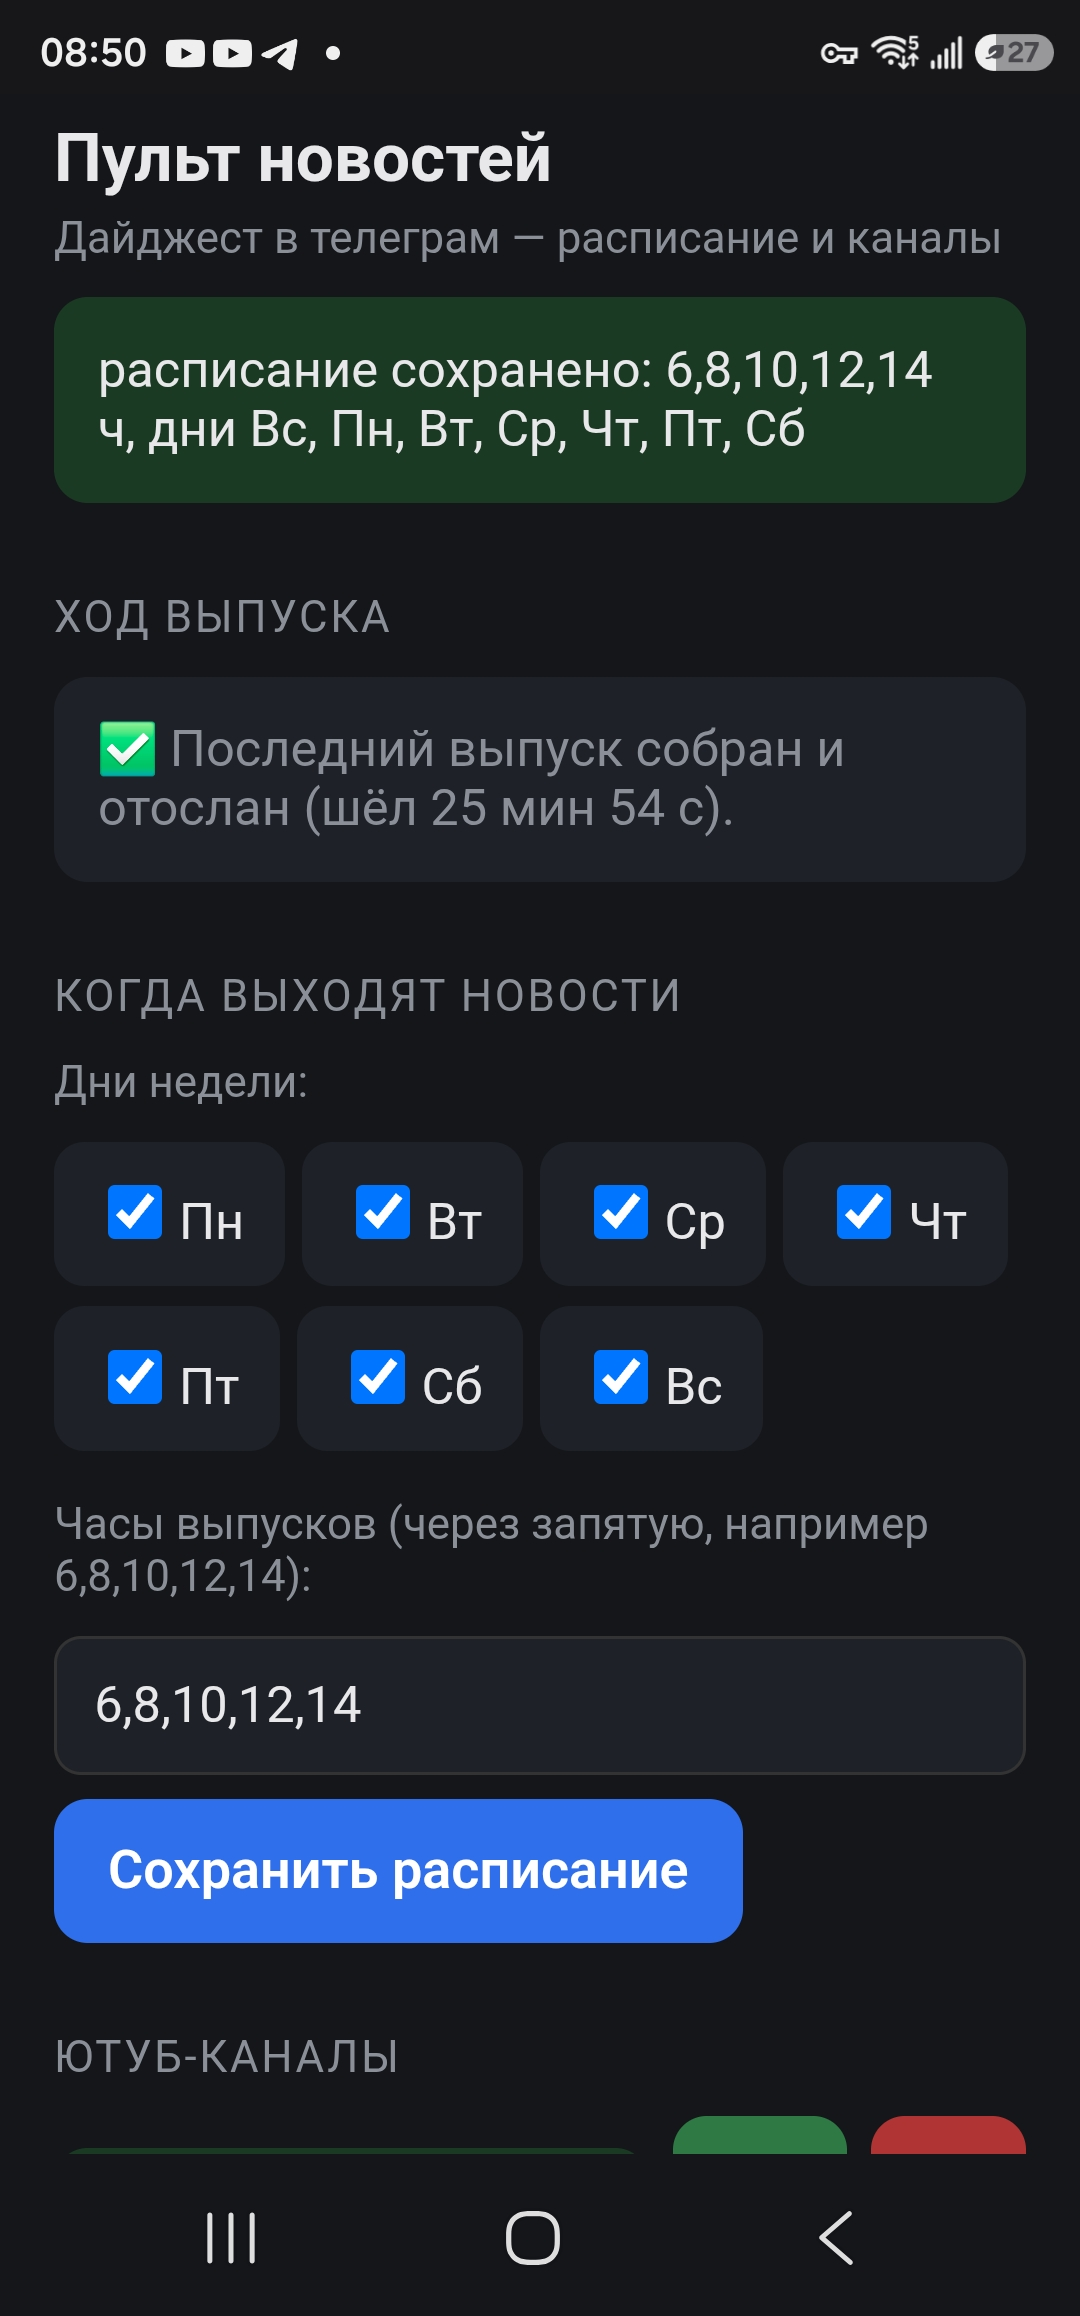
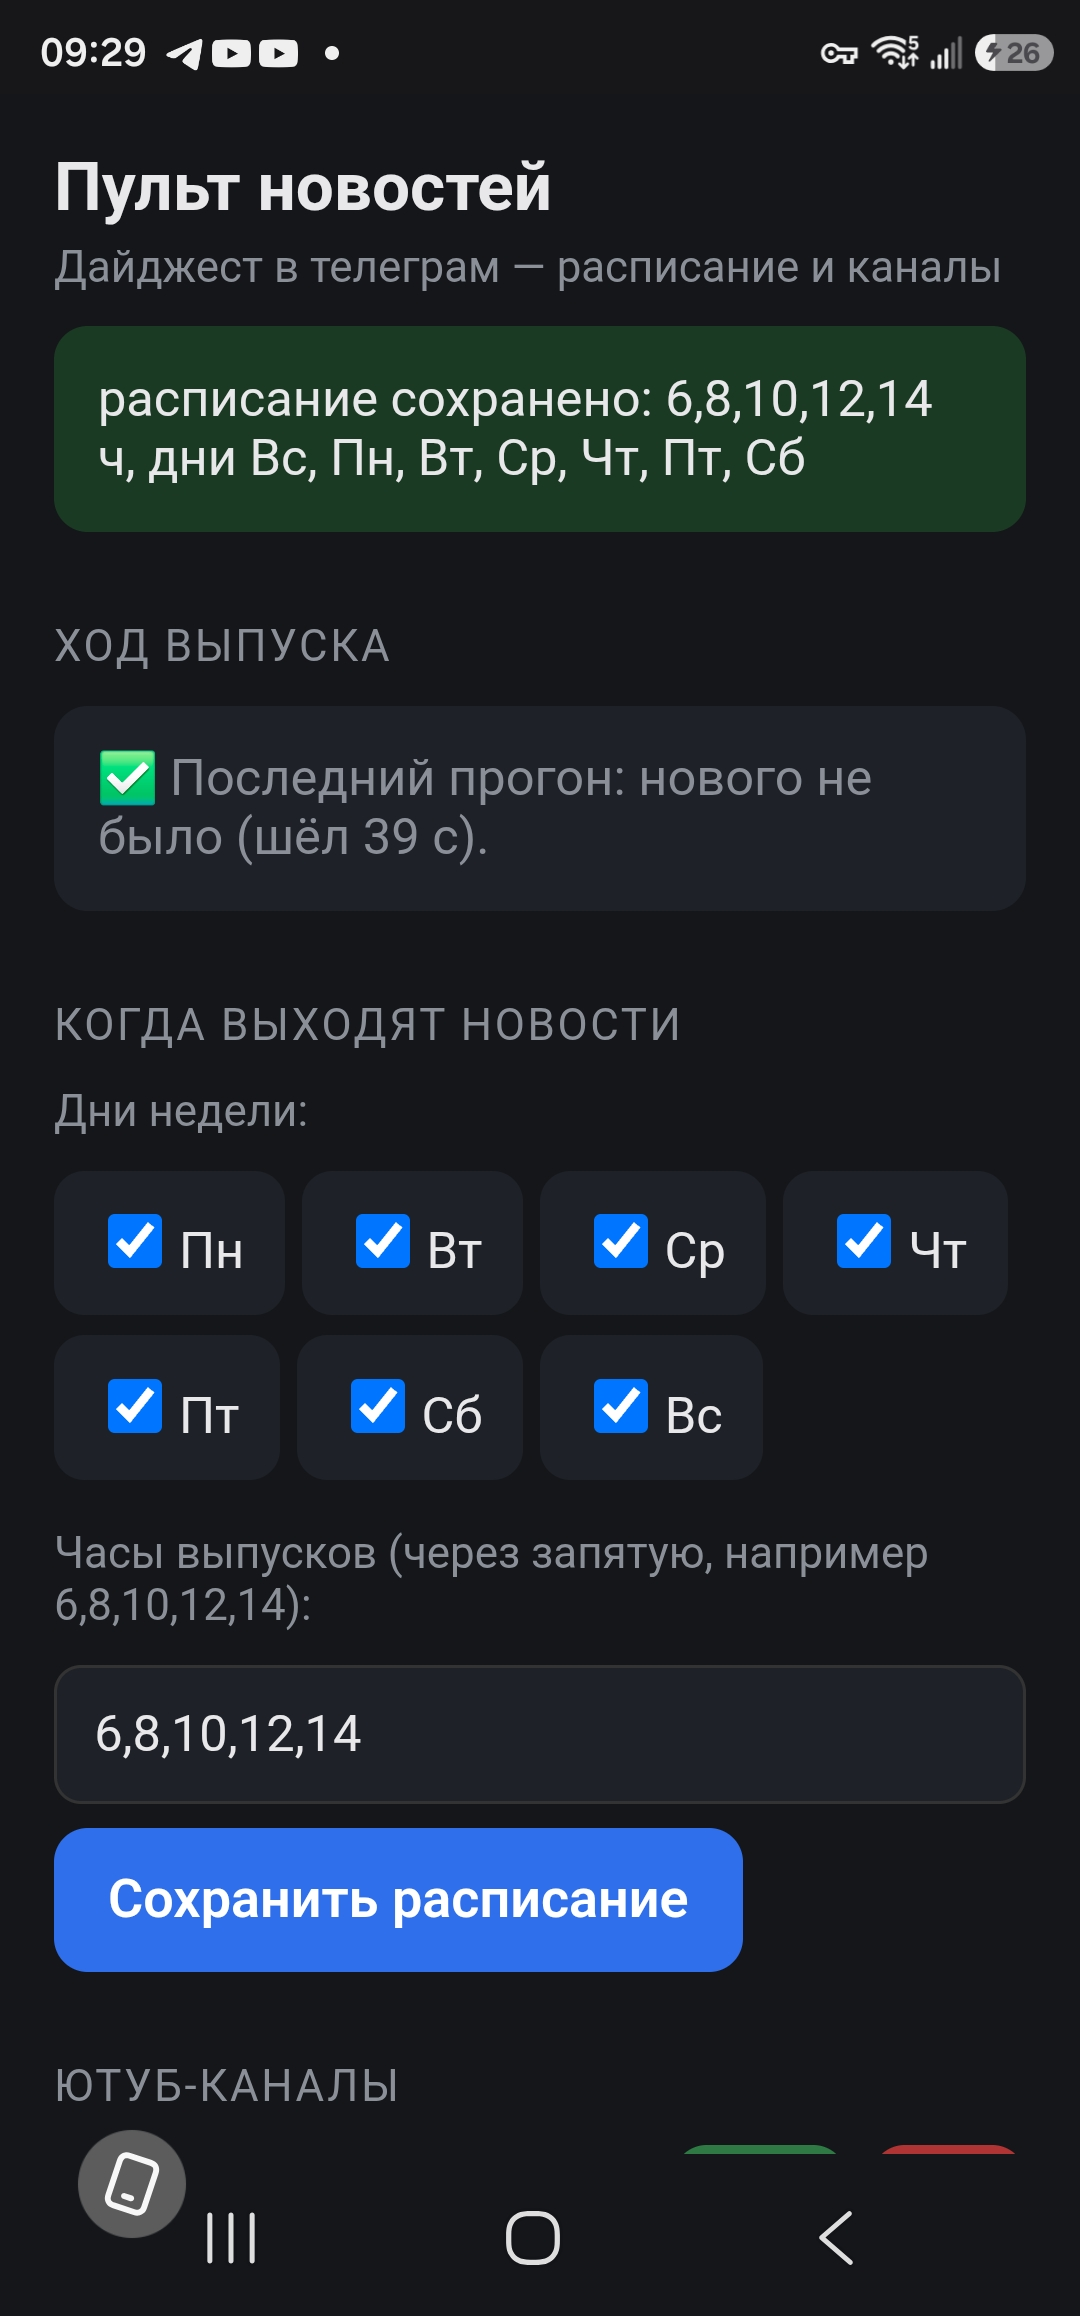
Свежие скриншоты пульта (новый порядок источников)

diff --git a/README.md b/README.md
@@ -67,9 +67,9 @@ reading while driving.*
 </p>
 
 Слева направо: **расписание выпусков** (дни и часы) и монитор **хода
-сборки** («последний выпуск собран, шёл 25 мин»); список **ютуб-каналов**
-— включить/выключить, удалить, задать «брать последних N»; **текстовые
-ленты** и кнопка **«Собрать выпуск сейчас»**.
+сборки**; список **ютуб-каналов** — включить/выключить, удалить, задать
+«брать последних N»; и все **источники** — текстовые ленты, RSS-ленты
+сайтов и телеграм-каналы, каждый можно добавить, убрать или отключить.
 
 ## Как это устроено / How it works
 
